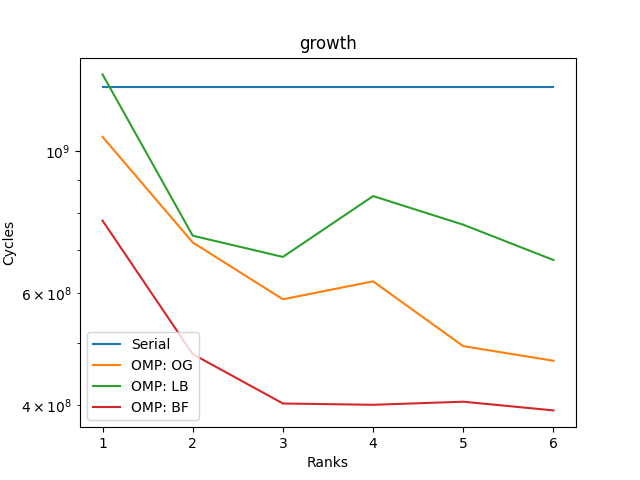
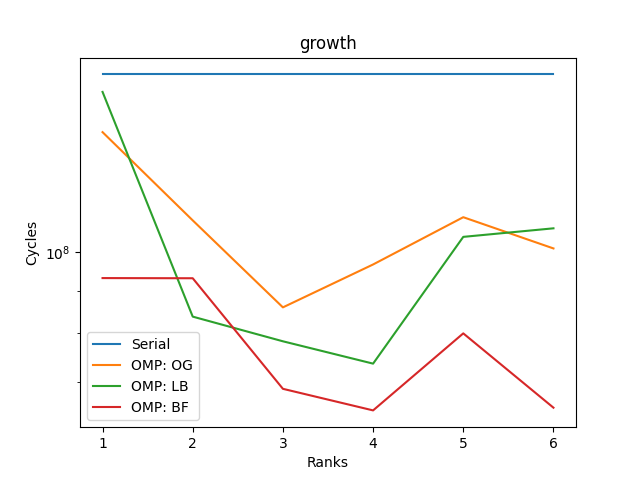
New parallel branch bench

diff --git a/benchmarks/quickbench.py b/benchmarks/quickbench.py
@@ -7,7 +7,7 @@ import matplotlib.pyplot as plt
 #Quick bench Paramaters 
 
 #Proof to quickbench
-proof = "../proofs/hyperslate/benchmarks/Tree14.slt"
+proof = "../proofs/hyperslate/benchmarks/Branch100-150.slt"
 ranks = [1, 2, 3, 4, 5, 6] #Num Ranks to test
 #ParallelVerifier Args to test with
 MPIArgs = [
